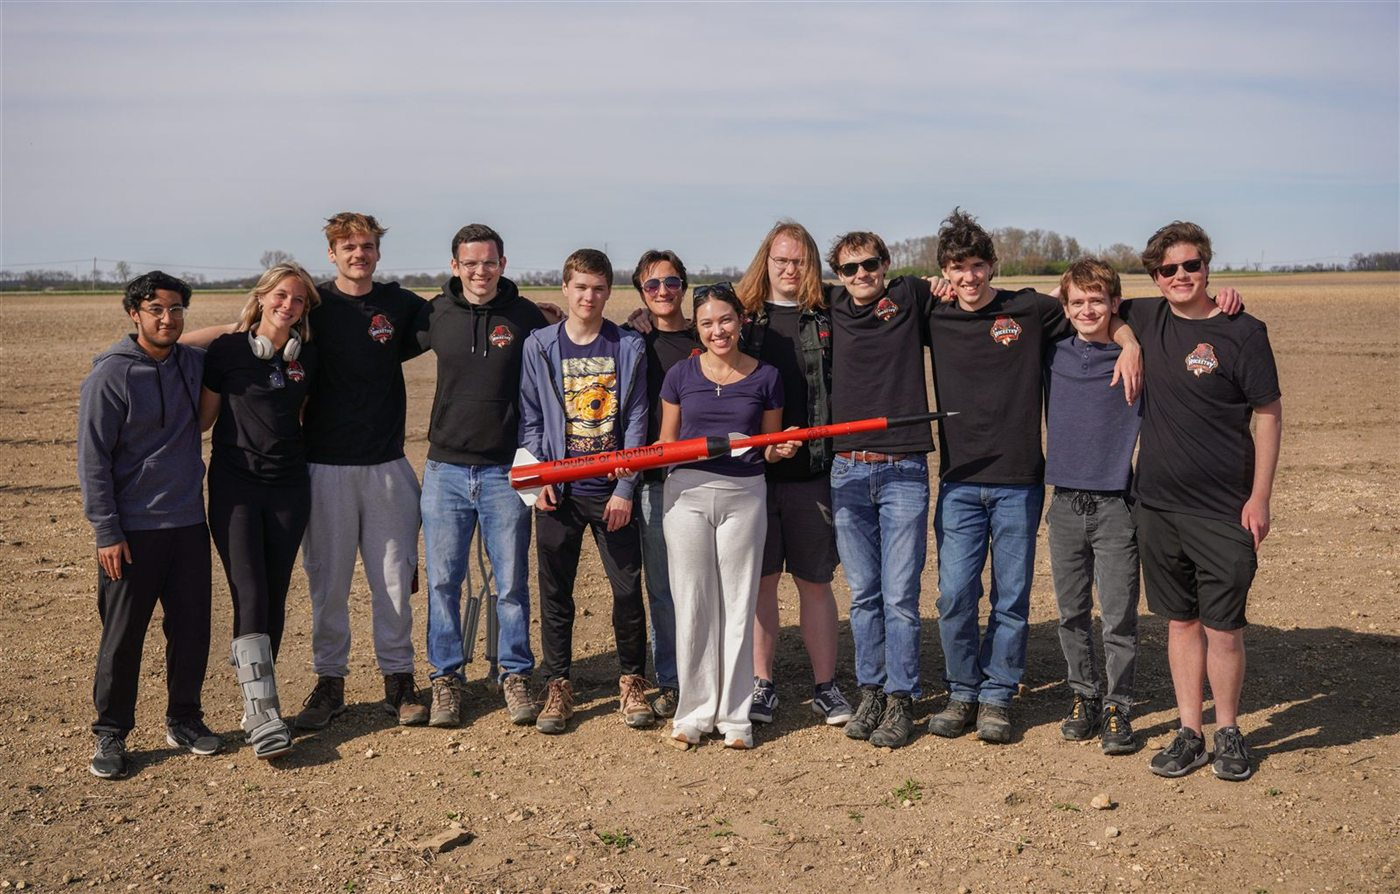
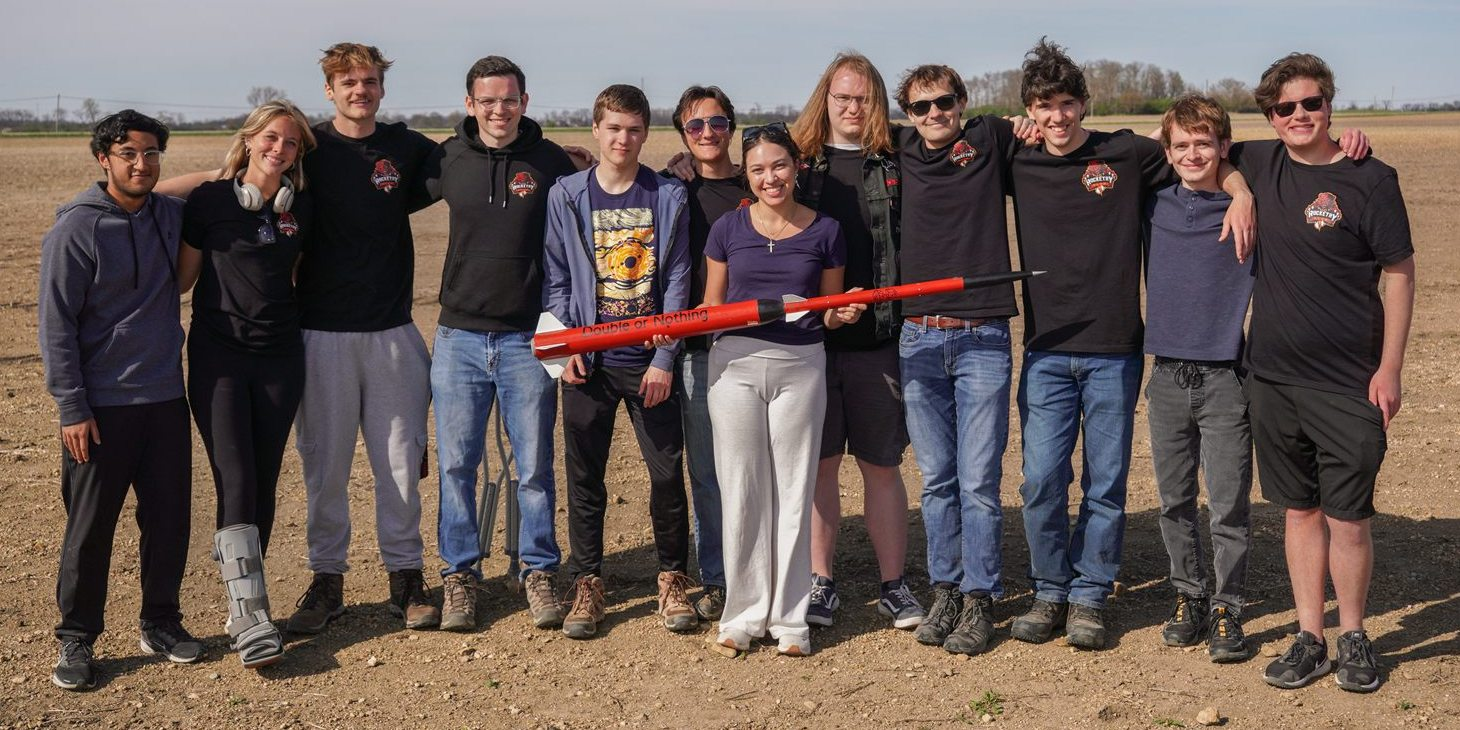
Tighter team photo crop; show wide rocket photos full-width uncropped

diff --git a/index.html b/index.html
@@ -153,6 +153,8 @@
     figcaption { font-family: var(--mono); font-size: .72rem; color: var(--dim); margin-top: .5rem; line-height: 1.5; }
     .gallery { display: grid; grid-template-columns: repeat(2, 1fr); gap: 1.5rem; margin-top: 2.5rem; }
     .gallery img { aspect-ratio: 4/3; object-fit: cover; }
+    .gallery .wide { grid-column: 1 / -1; }
+    .gallery .wide img { aspect-ratio: auto; }
 
     /* Skills */
     .skills { display: grid; grid-template-columns: repeat(3, 1fr); gap: 1rem; }
@@ -402,8 +404,8 @@
       </div>
 
       <div class="gallery">
-        <figure><img src="images/rocket-layout.jpg" alt="Rocket components laid out: airframe, avionics sled, recovery gear, and nose cone"><figcaption>Second stage laid out: airframe, avionics sled, recovery gear, and nose cone.</figcaption></figure>
-        <figure><img src="images/rocket-team.jpg" alt="UC Rocketry team holding the rocket in a field on launch day"><figcaption>The UC Rocketry team with "Double or Nothing" on launch day.</figcaption></figure>
+        <figure class="wide"><img src="images/rocket-layout.jpg" alt="Rocket components laid out: airframe, avionics sled, recovery gear, and nose cone"><figcaption>Second stage laid out: airframe, avionics sled, recovery gear, and nose cone.</figcaption></figure>
+        <figure class="wide"><img src="images/rocket-team.jpg" alt="UC Rocketry team holding the rocket in a field on launch day"><figcaption>The UC Rocketry team with "Double or Nothing" on launch day.</figcaption></figure>
       </div>
     </section>
 
